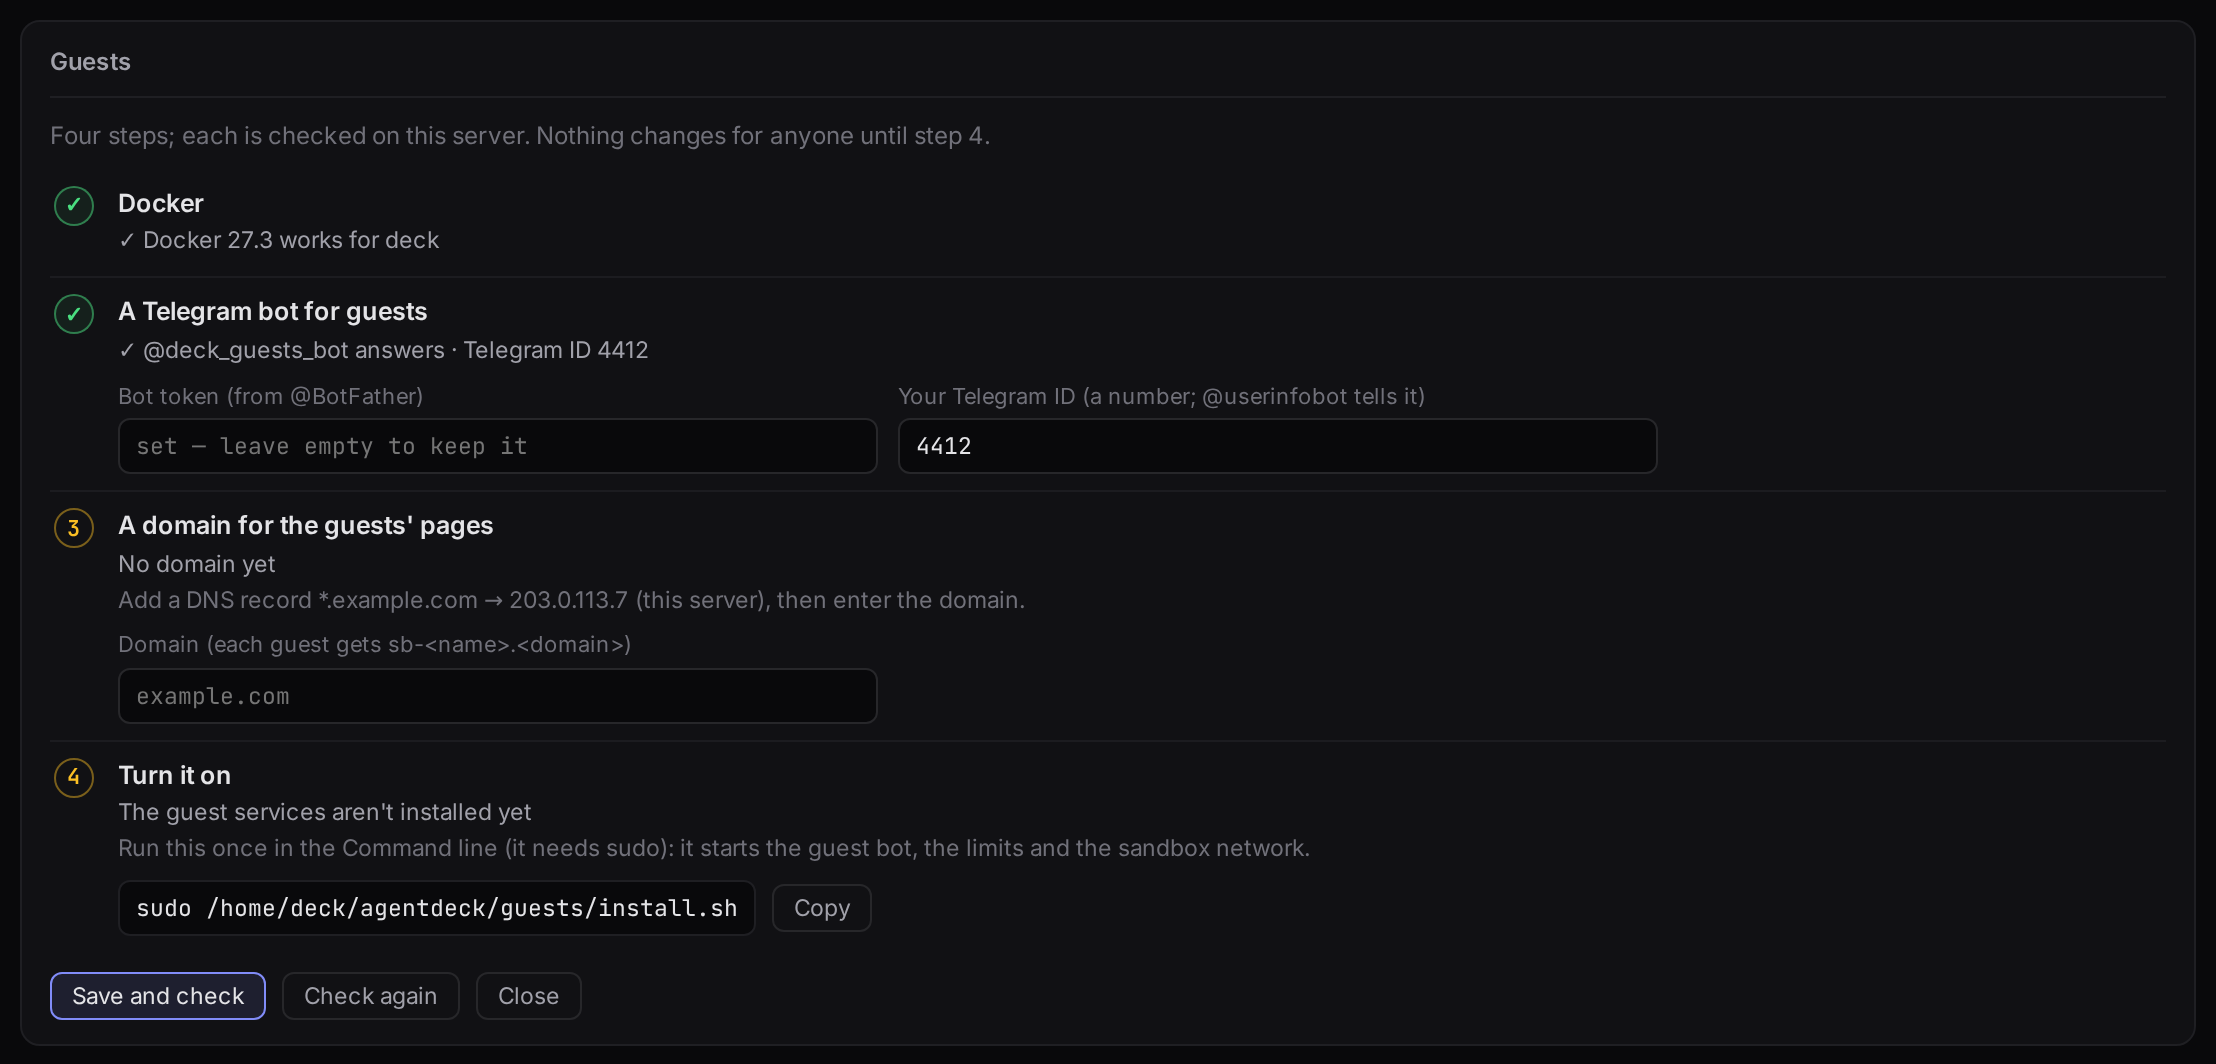
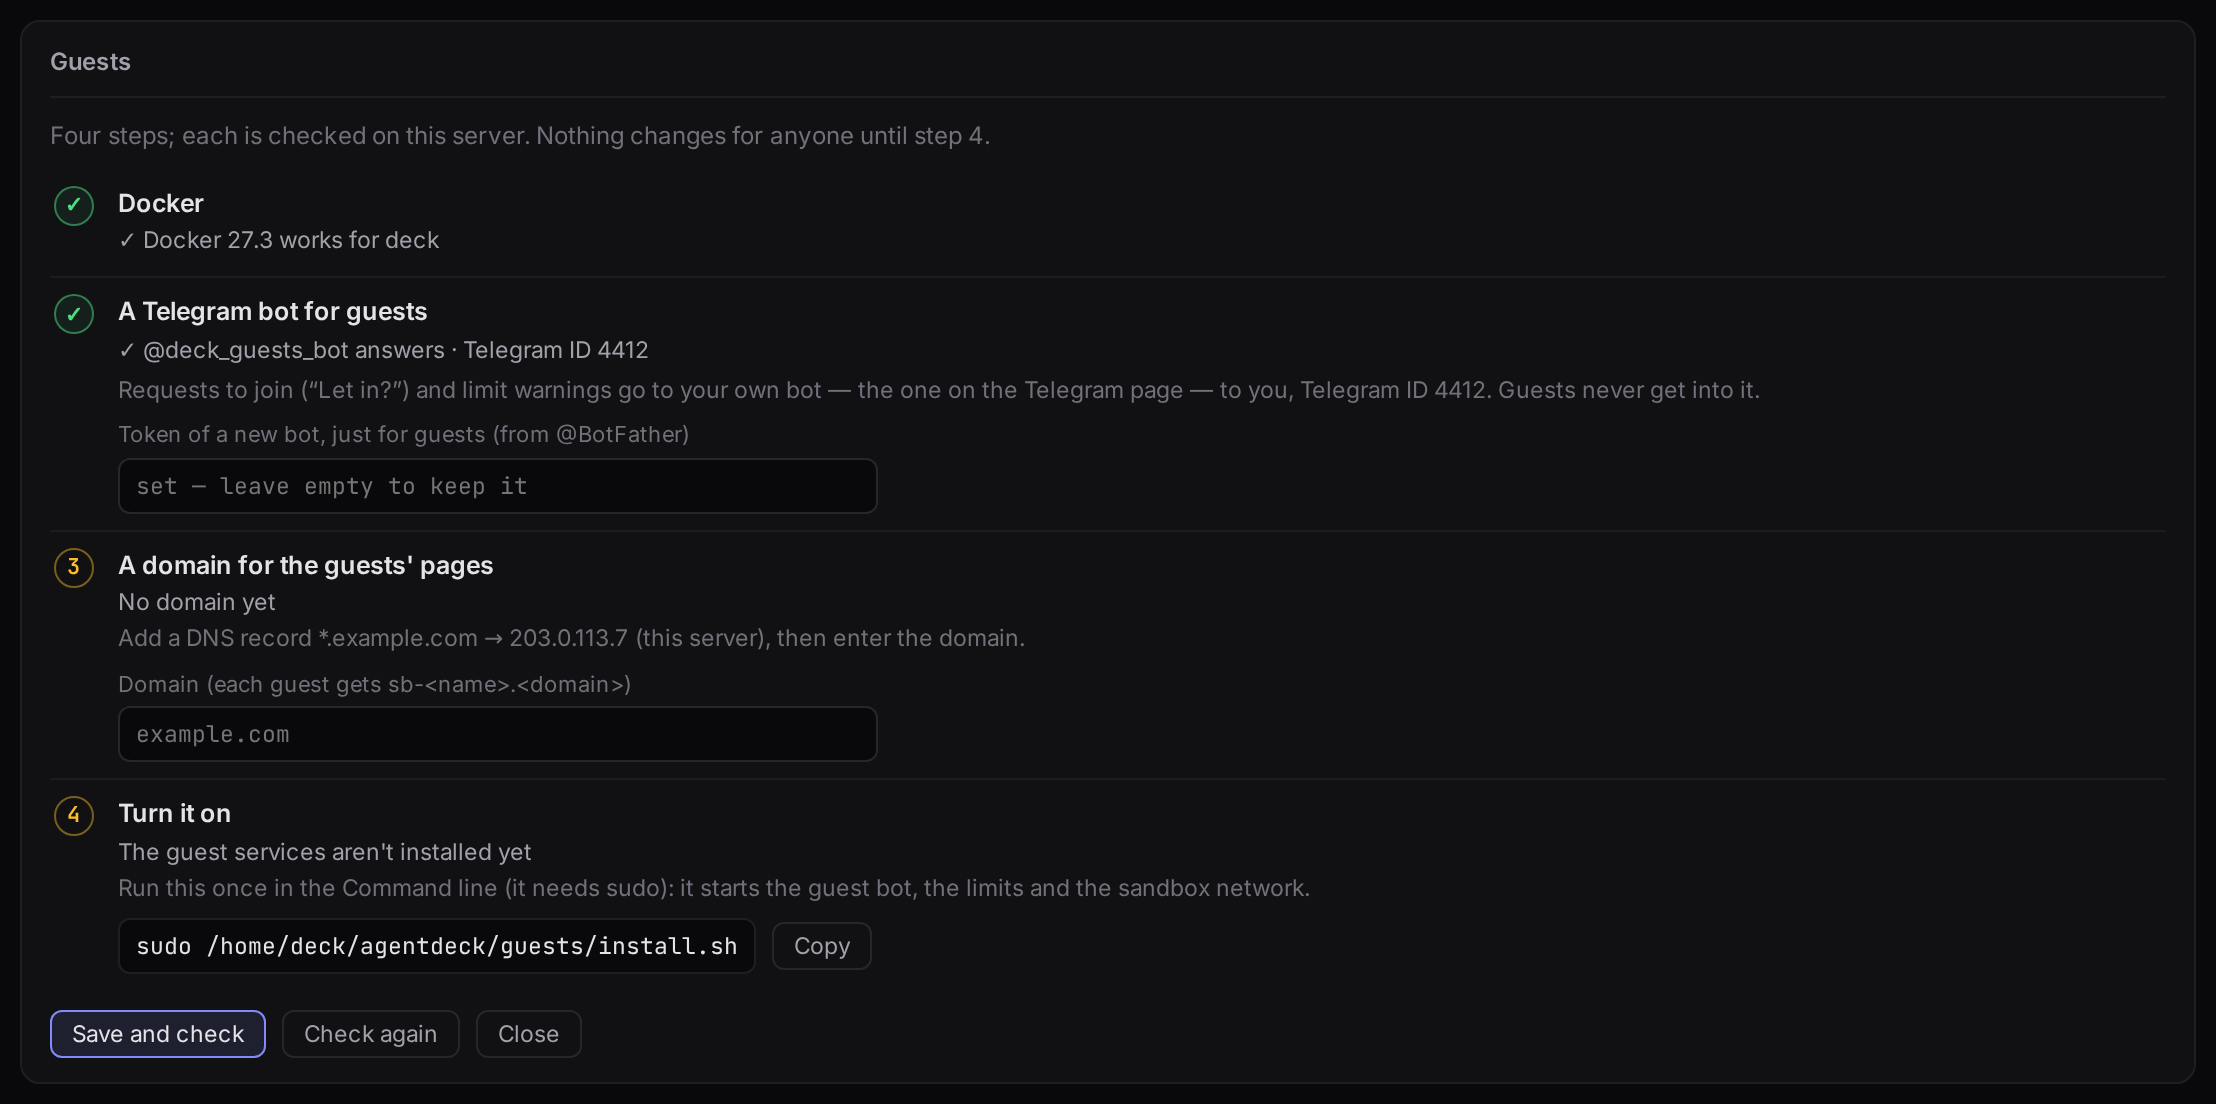
Guests wizard: the admin is the owner of your own bot, not a typed id
Decision 27.10 (docs/PLAN-2.0.md): "Let in?" goes to the admin's own bot. The
wizard no longer asks for a Telegram ID: setup writes OWNER_TG_ID from the
dashboard's Telegram settings (.sessions/telegram.json), ignores an id in the
request, and refuses (409) while there is no bot of your own — the wizard then
points to the Telegram page and keeps Save disabled. Tests: 4 new API, 1 new
browser; panel suites 68 passed.

diff --git a/web/server.html b/web/server.html
@@ -280,6 +280,9 @@
     .gdetail { font-size: 11.5px; color: var(--dim); }
     .gfix { font-size: 11.5px; color: var(--faint); line-height: 1.5; }
     .gstep[data-ok="1"] .gfix { display: none; }
+    .gadmin { font-size: 11.5px; color: var(--faint); line-height: 1.5; margin-top: 2px; }
+    .gadmin a { color: var(--accent); }
+    .gadmin.need { color: var(--amber); }
     .gfields { display: flex; flex-wrap: wrap; gap: 6px 10px; margin-top: 6px; }
     .gfields label { display: grid; gap: 3px; font-size: 11px; color: var(--faint); min-width: 0; flex: 1 1 220px; max-width: 380px; }
     .gfields input, .glimit input {
@@ -425,9 +428,9 @@
         <div class="gdetail"></div>
         <div>
           <div class="gfix"></div>
+          <div class="gadmin"></div>
           <div class="gfields">
-            <label>Bot token (from @BotFather)<input id="gToken" type="password" autocomplete="off" spellcheck="false" placeholder="123456789:AA…"></label>
-            <label>Your Telegram ID (a number; @userinfobot tells it)<input id="gOwner" inputmode="numeric" autocomplete="off" spellcheck="false" placeholder="123456789"></label>
+            <label>Token of a new bot, just for guests (from @BotFather)<input id="gToken" type="password" autocomplete="off" spellcheck="false" placeholder="123456789:AA…"></label>
           </div>
         </div>
       </div>
@@ -1122,7 +1125,8 @@
       const ok = checks.every(c => c.ok);
       box.dataset.ok = ok ? '1' : '0';
       box.querySelector('.gdetail').textContent = (ok ? '✓ ' : '') + checks.map(c => c.detail).filter(Boolean).join(' · ');
-      const fix = checks.filter(c => !c.ok).map(c => c.fix).filter(Boolean).join(' ');
+      // the admin's id comes from "Your bot" (.gadmin says how), never typed here
+      const fix = checks.filter(c => !c.ok && c.id !== 'owner').map(c => c.fix).filter(Boolean).join(' ');
       if (step !== 'services') box.querySelector('.gfix').textContent = fix;
     }
     box.querySelector('.gmark').textContent = box.dataset.ok === '1' ? '✓' : String(Object.keys(STEP_CHECKS).indexOf(step) + 1);
@@ -1163,7 +1167,19 @@
     if (gWizardOpen) {
       for (const s of Object.keys(STEP_CHECKS)) gStep(s, d);
       $('#gToken').placeholder = d.env && d.env.bot_token_set ? 'set — leave empty to keep it' : '123456789:AA…';
-      if (document.activeElement !== $('#gOwner') && !$('#gOwner').value) $('#gOwner').value = (d.env && d.env.owner_id) || '';
+      const admin = d.admin || {}, ga = $('#gWizard .gadmin');
+      ga.classList.toggle('need', !admin.bot_set);
+      if (admin.bot_set) {
+        ga.textContent = `Requests to join (“Let in?”) and limit warnings go to your own bot — the one on the Telegram page — to you, Telegram ID ${admin.owner_id}. Guests never get into it.`;
+      } else {
+        ga.replaceChildren(document.createTextNode('First set up your own bot on the '),
+          Object.assign(el('a', null, 'Telegram page'), { href: '/telegram' }),
+          document.createTextNode(': requests to join (“Let in?”) arrive there, so without it nobody can let guests in.'));
+        const box = $('#gWizard .gstep[data-step="bot"]');
+        box.dataset.ok = '0';
+        box.querySelector('.gmark').textContent = '2';
+      }
+      $('#gSave').disabled = !admin.bot_set;
       if (document.activeElement !== $('#gDomain') && !$('#gDomain').value) $('#gDomain').value = (d.env && d.env.domain) || '';
       $('#gCmd').textContent = `sudo ${d.dir}/install.sh`;
       $('#gChecking').hidden = !d.checking;
@@ -1226,7 +1242,7 @@
   });
   $('#gSave').addEventListener('click', async () => {
     const err = $('#gWizErr');
-    const body = { bot_token: $('#gToken').value.trim(), owner_id: $('#gOwner').value.trim(), domain: $('#gDomain').value.trim() };
+    const body = { bot_token: $('#gToken').value.trim(), domain: $('#gDomain').value.trim() };
     $('#gSave').disabled = true;
     try {
       await gPost('setup', body);
@@ -1236,7 +1252,7 @@
       err.textContent = e.message;
       err.hidden = false;
     } finally {
-      $('#gSave').disabled = false;
+      $('#gSave').disabled = !(gLast && gLast.admin && gLast.admin.bot_set);
     }
     await pollGuests();
     setTimeout(pollGuests, 1500);

diff --git a/status_server.py b/status_server.py
@@ -1225,11 +1225,12 @@ GUESTS_ROUTE = "/api/guests"
 GUESTS_LIST_TTL = 10
 GUEST_NAME_RE = re.compile(r"^[a-z0-9][a-z0-9-]{0,30}$")
 GUESTS_ACTIONS = ("stop", "start", "remove", "limit")
-_GUESTS_ENV_KEYS = {"bot_token": "GUEST_BOT_TOKEN", "owner_id": "OWNER_TG_ID",
-                    "domain": "GUESTS_DOMAIN"}
+# what the wizard sets; OWNER_TG_ID is not asked: the guests' admin is the owner of
+# "Your bot" (the dashboard's Telegram page) — "Let in?" goes there (decision 27.10.2026)
+_GUESTS_ENV_KEYS = {"bot_token": "GUEST_BOT_TOKEN", "domain": "GUESTS_DOMAIN"}
+_GUESTS_NEEDED = ("GUEST_BOT_TOKEN", "OWNER_TG_ID", "GUESTS_DOMAIN")
 _GUESTS_VALID = {
     "bot_token": re.compile(r"^[0-9]{5,15}:[A-Za-z0-9_-]{30,60}$"),
-    "owner_id": re.compile(r"^[1-9][0-9]{0,14}$"),
     "domain": re.compile(r"^(?=.{4,200}$)([a-z0-9]([a-z0-9-]{0,61}[a-z0-9])?\.)+[a-z]{2,63}$"),
 }
 
@@ -1282,6 +1283,15 @@ def guests_write_env(values):
         f.write("\n".join(lines) + "\n")
     os.chmod(tmp, 0o600)
     os.replace(tmp, path)
+
+
+def guests_admin():
+    """The owner of "Your bot": {"bot_set", "owner_id"} — no token, no owner = not set."""
+    cfg = tg_load()
+    owner = str(cfg.get("owner") or "").strip() if isinstance(cfg, dict) else ""
+    token = str(cfg.get("token") or "").strip() if isinstance(cfg, dict) else ""
+    ok = bool(token) and bool(re.fullmatch(r"[1-9][0-9]{0,14}", owner))
+    return {"bot_set": ok, "owner_id": owner if ok else ""}
 
 
 class GuestsPanel:
@@ -1344,7 +1354,7 @@ class GuestsPanel:
     def state(self):
         installed = guests_installed()
         env = guests_env() if installed else {}
-        configured = installed and all(env.get(k) for k in _GUESTS_ENV_KEYS.values())
+        configured = installed and all(env.get(k) for k in _GUESTS_NEEDED)
         with self.lock:
             if configured and not self.listing and time.time() - self.list_at > GUESTS_LIST_TTL:
                 self.listing = True
@@ -1353,6 +1363,7 @@ class GuestsPanel:
                     "env": {"bot_token_set": bool(env.get("GUEST_BOT_TOKEN")),
                             "owner_id": env.get("OWNER_TG_ID", ""),
                             "domain": env.get("GUESTS_DOMAIN", "")},
+                    "admin": guests_admin(),
                     "guests": self.guests if configured else None,
                     "list_error": self.list_error if configured else None,
                     "checks": self.checks, "checking": self.checking,
@@ -1361,7 +1372,11 @@ class GuestsPanel:
     def setup(self, body):
         if not guests_installed():
             raise LibError(409, "the guests module is not in this AgentDeck")
-        values = {}
+        admin = guests_admin()
+        if not admin["bot_set"]:
+            raise LibError(409, "Set up your own Telegram bot first (the dashboard's Telegram "
+                                "page): guests' requests to join go there")
+        values = {"OWNER_TG_ID": admin["owner_id"]}
         for field, key in _GUESTS_ENV_KEYS.items():
             v = body.get(field)
             if v is None or v == "":
@@ -1369,11 +1384,9 @@ class GuestsPanel:
             v = str(v).strip().lower() if field == "domain" else str(v).strip()
             if not _GUESTS_VALID[field].fullmatch(v):
                 raise LibError(400, {"bot_token": "That doesn't look like a bot token (digits:letters, from @BotFather)",
-                                     "owner_id": "Your Telegram ID is a number",
                                      "domain": "A domain like example.com — no http://, no path"}[field])
             values[key] = v
-        if values:
-            guests_write_env(values)
+        guests_write_env(values)
         self.check()
         return {"ok": True}
 

diff --git a/tests/test_server_guests.py b/tests/test_server_guests.py
@@ -35,8 +35,9 @@ CHECKS_OK = {"bot": "@my_guests_bot answers", "owner": "Telegram ID 42",
 
 
 class FakeGuests:
-    def __init__(self, configured=True):
+    def __init__(self, configured=True, admin=True):
         self.configured = configured
+        self.admin = {"bot_set": admin, "owner_id": "42" if admin else ""}
         self.guests = copy.deepcopy(GUESTS)
         self.checks = None
         self.jobs = {}
@@ -74,7 +75,7 @@ class FakeGuests:
                 self.jobs[body["name"]] = {"action": what, "done": True, "ok": True, "output": ""}
             return route.fulfill(status=200, content_type="application/json", body='{"ok": true}')
         state = {"installed": True, "configured": self.configured, "dir": "/home/me/agentdeck/guests",
-                 "env": self.env, "guests": self.guests if self.configured else None,
+                 "env": self.env, "admin": self.admin, "guests": self.guests if self.configured else None,
                  "list_error": None, "checks": self.checks, "checking": False, "jobs": self.jobs}
         route.fulfill(status=200, content_type="application/json", body=json.dumps(state))
 
@@ -188,16 +189,19 @@ def test_off_offers_the_wizard(browser, site):  # noqa: F811
     assert fake.posts[0][0] == "/api/guests/check"
     assert pg.get_attribute('#gWizard .gstep[data-step="bot"]', "data-ok") == "0"
     assert "@BotFather" in pg.inner_text('#gWizard .gstep[data-step="bot"]')
+    assert "Paste your numeric ID" not in pg.inner_text('#gWizard .gstep[data-step="bot"]')
     shot(pg, "server-guests-wizard.png")
-    # step 2 + 3: the token, the owner and the domain go in one save
+    # no id to type: requests go to your own bot, whose owner is named
+    assert pg.query_selector("#gOwner") is None
+    assert "42" in pg.inner_text('#gWizard .gstep[data-step="bot"] .gadmin')
+    # step 2 + 3: the token and the domain go in one save
     pg.fill("#gToken", "123456789:AAH" + "x" * 32)
-    pg.fill("#gOwner", "42")
     pg.fill("#gDomain", "example.com")
     pg.click("#gSave")
     pg.wait_for_selector('#gWizard .gstep[data-step="domain"][data-ok="1"]')
     path, body, _ = fake.posts[-1]
     assert path == "/api/guests/setup"
-    assert body == {"bot_token": "123456789:AAH" + "x" * 32, "owner_id": "42", "domain": "example.com"}
+    assert body == {"bot_token": "123456789:AAH" + "x" * 32, "domain": "example.com"}
     assert pg.input_value("#gToken") == ""             # never kept on the page
     # step 4: the one command to run, with the module's real folder
     assert "sudo /home/me/agentdeck/guests/install.sh" in pg.inner_text('#gWizard .gstep[data-step="services"]')
@@ -214,6 +218,20 @@ def test_wizard_shows_a_refused_value(browser, site):  # noqa: F811
     pg.click("#gSave")
     pg.wait_for_selector("#gWizErr:not([hidden])")
     assert "bot token" in pg.inner_text("#gWizErr")
+    assert pg.errors == []
+    ctx.close()
+
+
+def test_no_bot_of_your_own_sends_you_there_first(browser, site):  # noqa: F811
+    fake = FakeGuests(configured=False, admin=False)
+    ctx, pg = open_page(browser, site, fake)
+    pg.click("#gSetup")
+    step = pg.wait_for_selector('#gWizard .gstep[data-step="bot"] .gadmin a')
+    assert step.get_attribute("href") == "/telegram"
+    assert "your own" in pg.inner_text('#gWizard .gstep[data-step="bot"] .gadmin').lower()
+    assert pg.get_attribute('#gWizard .gstep[data-step="bot"]', "data-ok") == "0"
+    assert pg.is_disabled("#gSave")
+    shot(pg, "server-guests-no-admin-bot.png")
     assert pg.errors == []
     ctx.close()
 

diff --git a/tests/test_guests_api.py b/tests/test_guests_api.py
@@ -74,11 +74,16 @@ def g(tmp_path, monkeypatch):
     monkeypatch.delenv("AGENTDECK_ORIGIN", raising=False)
     sys.modules.pop("status_server", None)
     ss = importlib.import_module("status_server")
+    # "Your bot" (the dashboard's Telegram page): its owner is the guests' admin
+    tg = tmp_path / "telegram.json"
+    tg.write_text(json.dumps({"enabled": True, "token": "999:" + "y" * 35, "owner": 42}))
+    monkeypatch.setattr(ss, "TG_CONF", str(tg))
     srv = HTTPServer(("127.0.0.1", 0), ss.Handler)
     threading.Thread(target=srv.serve_forever, daemon=True).start()
 
     class G:
         dir = gd
+        tg_conf = tg
         base = f"http://127.0.0.1:{srv.server_address[1]}"
         mod = ss
 
@@ -157,6 +162,7 @@ def test_installed_but_not_configured_lists_nothing(g):
     assert code == 200
     assert d["installed"] is True and d["configured"] is False
     assert d["env"] == {"bot_token_set": False, "owner_id": "", "domain": ""}
+    assert d["admin"] == {"bot_set": True, "owner_id": "42"}
     assert d["guests"] is None
     time.sleep(0.3)
     assert ["list", "--json"] not in g.calls()
@@ -190,8 +196,7 @@ def test_check_runs_the_doctor(g):
 
 def test_setup_writes_env_and_checks_again(g):
     (g.dir / ".env").write_text("# keep me\nSERVER_IP=1.2.3.4\nOWNER_TG_ID=1\n")
-    code, d = post(g.base, "/api/guests/setup",
-                   {"bot_token": TOKEN, "owner_id": "42", "domain": "Example.COM"})
+    code, d = post(g.base, "/api/guests/setup", {"bot_token": TOKEN, "domain": "Example.COM"})
     assert (code, d) == (200, {"ok": True})
     env = (g.dir / ".env").read_text()
     assert f"GUEST_BOT_TOKEN={TOKEN}\n" in env and "OWNER_TG_ID=42\n" in env
@@ -208,12 +213,34 @@ def test_setup_keeps_the_token_when_it_is_left_empty(g):
     assert f"GUEST_BOT_TOKEN={TOKEN}" in env and "GUESTS_DOMAIN=other.org" in env
 
 
-@pytest.mark.parametrize("body", [{"bot_token": "nope"}, {"owner_id": "12a"},
+@pytest.mark.parametrize("body", [{"bot_token": "nope"},
                                   {"domain": "http://x.com"}, {"domain": "a b.com"},
                                   {"bot_token": TOKEN + "\nEVIL=1"}])
 def test_setup_refuses_bad_values(g, body):
     code, d = post(g.base, "/api/guests/setup", body)
     assert code == 400 and d["error"]
+    assert not (g.dir / ".env").exists()
+
+
+def test_the_admin_is_the_owner_of_your_bot(g):
+    """Decision 27.10: "Let in?" goes to the admin's own bot — the wizard doesn't ask for
+    an id; a different one in the request is ignored, the .env one follows your bot."""
+    (g.dir / ".env").write_text("OWNER_TG_ID=7\n")
+    assert post(g.base, "/api/guests/setup", {"owner_id": "555", "domain": "example.com"})[0] == 200
+    env = (g.dir / ".env").read_text()
+    assert "OWNER_TG_ID=42\n" in env and "555" not in env and "OWNER_TG_ID=7" not in env
+
+
+@pytest.mark.parametrize("conf", [None, {"enabled": True, "token": "", "owner": 42},
+                                  {"enabled": True, "token": "999:" + "y" * 35, "owner": ""}])
+def test_no_bot_of_your_own_no_guests_setup(g, conf):
+    if conf is None:
+        g.tg_conf.unlink()
+    else:
+        g.tg_conf.write_text(json.dumps(conf))
+    assert get(g.base)[1]["admin"]["bot_set"] is False
+    code, d = post(g.base, "/api/guests/setup", {"bot_token": TOKEN, "domain": "example.com"})
+    assert code == 409 and "your own" in d["error"].lower()
     assert not (g.dir / ".env").exists()
 
 

diff --git a/tests/make_screenshots.py b/tests/make_screenshots.py
@@ -410,6 +410,7 @@ def guests_payload(configured=True, checks=None) -> dict:
     return {"installed": True, "configured": configured, "dir": "/home/deck/agentdeck/guests",
             "env": ({"bot_token_set": True, "owner_id": "4412", "domain": "example.com"} if configured
                     else {"bot_token_set": True, "owner_id": "4412", "domain": ""}),
+            "admin": {"bot_set": True, "owner_id": "4412"},
             "guests": guests if configured else None, "list_error": None,
             "checks": checks, "checking": False, "jobs": {}}
 

diff --git a/CHANGELOG.md b/CHANGELOG.md
@@ -12,7 +12,7 @@ All notable changes to AgentDeck. Newest first.
 
 ### Guests — other people on your server (optional, off by default)
 - **The guests module is now part of AgentDeck, in `guests/`.** Other people work on your server, each in a Docker sandbox of their own (an AgentDeck container from the same version), on your Claude subscription with a daily limit, through one shared Telegram bot; a newcomer writes `/start` and you let them in with a button. Set it up with `guests/.env` (domain, bot token, your Telegram id — see `guests/.env.example`) and `guests/install.sh` (`--check` only checks). `guests/guestctl.py` manages it: `add`, `list --json`, `limit <name> <tokens per day>`, `stop`/`start`, `remove`, and `doctor --json` to see what is still missing. Everything guests and you read — the bot, invitations, alerts — is in English, or in Russian with `GUESTS_LANG=ru`. See `guests/README.md`.
-- **The Guests block on the Server page.** Off, it says what guests are and offers *Set up guests*: a four-step wizard, each step checked on this server — Docker, a Telegram bot for guests (its token from @BotFather and your Telegram ID), a domain for the guests' pages, and the one command that turns the module on (`sudo …/guests/install.sh`, copied with a button). The bot token is written to `guests/.env` (readable only by you) and never shown back. On, it lists every guest — their page, today's tokens against their daily limit, on or off — with *Limit*, *Stop* / *Start* and *Remove* (asks first; their files stay on disk). The block is not shown inside Docker, where sandboxes can't run. Behind it, `GET /api/guests` and `POST /api/guests/{check,setup,stop,start,remove,limit}`, which run `guests/guestctl.py` in the background (removing a guest takes about a minute and a half).
+- **The Guests block on the Server page.** Off, it says what guests are and offers *Set up guests*: a four-step wizard, each step checked on this server — Docker, a Telegram bot for guests (only its token from @BotFather — you are the owner of *your* bot from the Telegram page, and requests to join go there; without your own bot the wizard sends you to set it up first), a domain for the guests' pages, and the one command that turns the module on (`sudo …/guests/install.sh`, copied with a button). The bot token is written to `guests/.env` (readable only by you) and never shown back. On, it lists every guest — their page, today's tokens against their daily limit, on or off — with *Limit*, *Stop* / *Start* and *Remove* (asks first; their files stay on disk). The block is not shown inside Docker, where sandboxes can't run. Behind it, `GET /api/guests` and `POST /api/guests/{check,setup,stop,start,remove,limit}`, which run `guests/guestctl.py` in the background (removing a guest takes about a minute and a half).
 - **The installer asks once.** "Will other people work on this server too?" — only when a person is at the terminal (never with `--yes`, `--check` or from a script), default no. Yes also installs Docker and lets you use it without sudo, and the final message says where to finish the setup; no says where to turn it on later. `--guests` / `--no-guests` (or `AGENTDECK_GUESTS=1|0`) answer it for automation; a re-run keeps the answer.
 
 ### Docker
